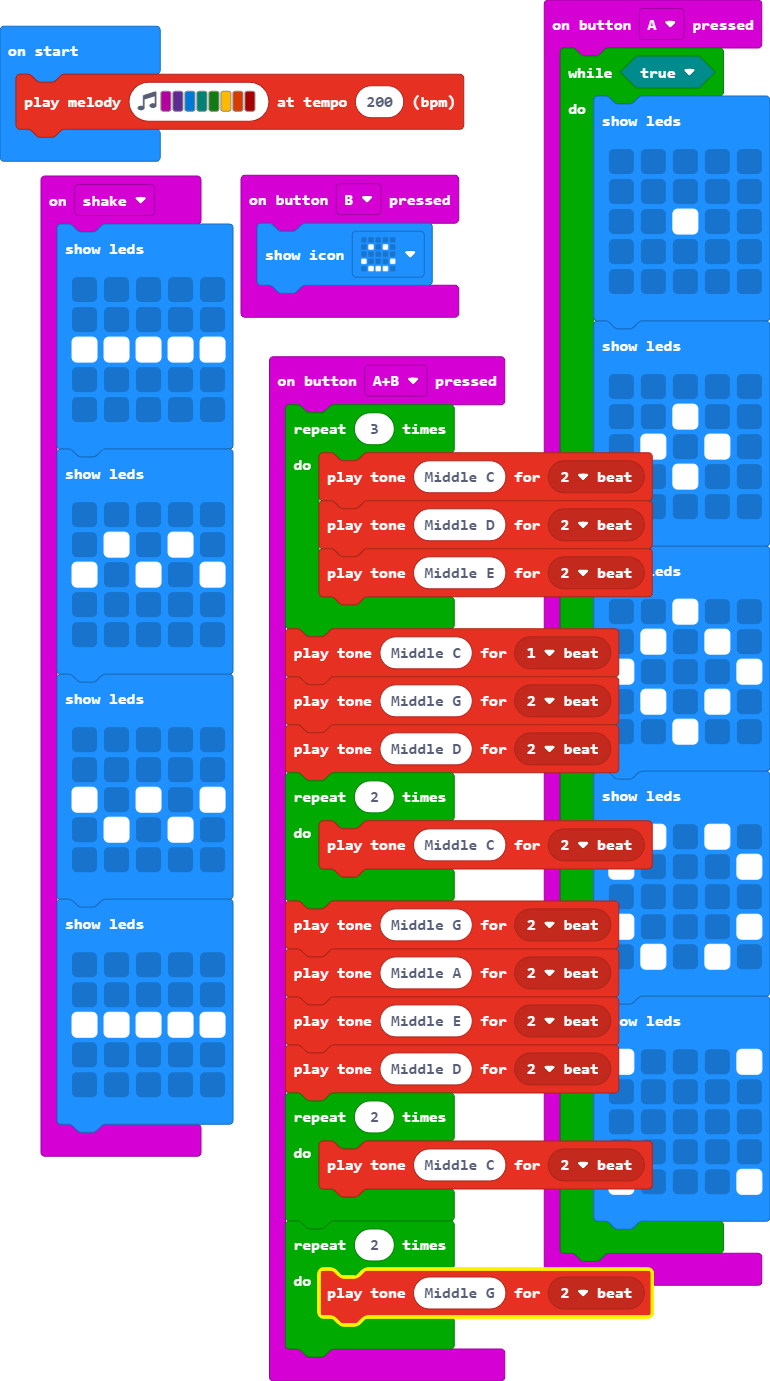
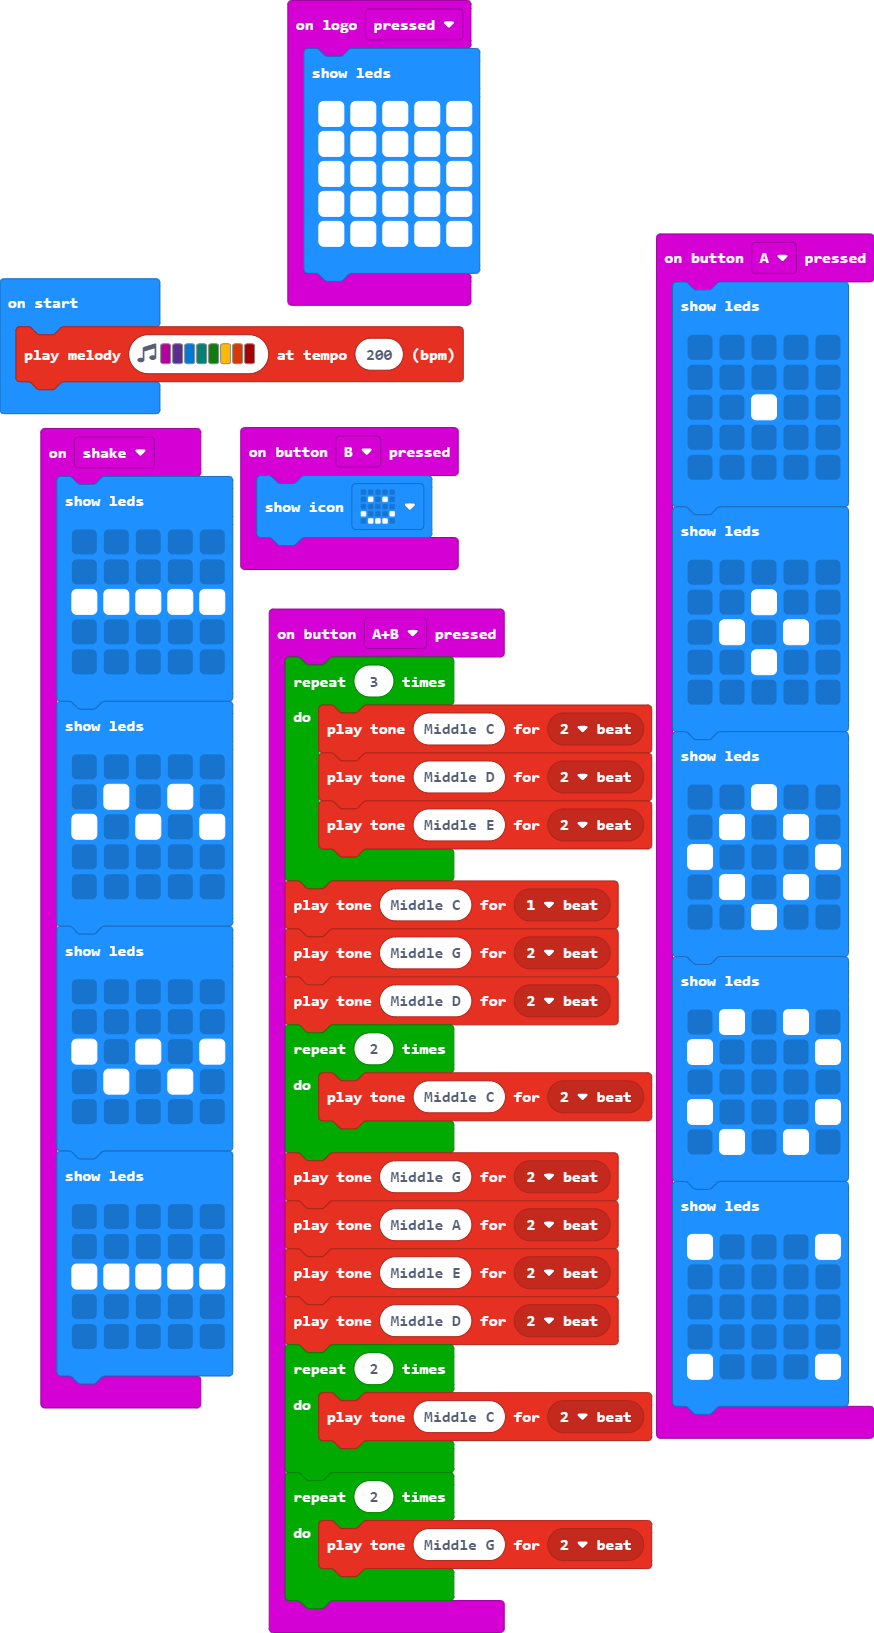
Update main.blocks, main.ts

diff --git a/main.ts b/main.ts
@@ -1,41 +1,39 @@
 input.onButtonPressed(Button.A, function () {
-    while (true) {
-        basic.showLeds(`
-            . . . . .
-            . . . . .
-            . . # . .
-            . . . . .
-            . . . . .
-            `)
-        basic.showLeds(`
-            . . . . .
-            . . # . .
-            . # . # .
-            . . # . .
-            . . . . .
-            `)
-        basic.showLeds(`
-            . . # . .
-            . # . # .
-            # . . . #
-            . # . # .
-            . . # . .
-            `)
-        basic.showLeds(`
-            . # . # .
-            # . . . #
-            . . . . .
-            # . . . #
-            . # . # .
-            `)
-        basic.showLeds(`
-            # . . . #
-            . . . . .
-            . . . . .
-            . . . . .
-            # . . . #
-            `)
-    }
+    basic.showLeds(`
+        . . . . .
+        . . . . .
+        . . # . .
+        . . . . .
+        . . . . .
+        `)
+    basic.showLeds(`
+        . . . . .
+        . . # . .
+        . # . # .
+        . . # . .
+        . . . . .
+        `)
+    basic.showLeds(`
+        . . # . .
+        . # . # .
+        # . . . #
+        . # . # .
+        . . # . .
+        `)
+    basic.showLeds(`
+        . # . # .
+        # . . . #
+        . . . . .
+        # . . . #
+        . # . # .
+        `)
+    basic.showLeds(`
+        # . . . #
+        . . . . .
+        . . . . .
+        . . . . .
+        # . . . #
+        `)
 })
 input.onButtonPressed(Button.AB, function () {
     for (let index = 0; index < 3; index++) {
@@ -91,6 +89,15 @@ input.onGesture(Gesture.Shake, function () {
         # # # # #
         . . . . .
         . . . . .
+        `)
+})
+input.onLogoEvent(TouchButtonEvent.Pressed, function () {
+    basic.showLeds(`
+        # # # # #
+        # # # # #
+        # # # # #
+        # # # # #
+        # # # # #
         `)
 })
 music.playMelody("C D E F G A B C5 ", 200)
